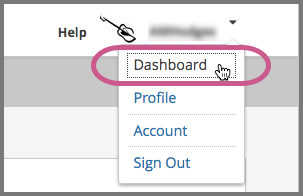
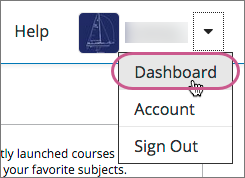
DOC-3860 Add Course Sessions topic

diff --git a/en_us/students/source/SFD_enrolling.rst b/en_us/students/source/SFD_enrolling.rst
@@ -40,7 +40,7 @@ you should understand these concepts.
 .. contents::
   :local:
   :depth: 1
-
+  
 
 .. _Course Availability:
 
@@ -80,6 +80,83 @@ times that the course is offered, and enroll in any of the available times.
 
 For more information, see :ref:`course start dates<Start Date and Duration>`
 and :ref:`course pacing<SFD Course Pacing>`.
+
+
+.. _Course Sessions:
+
+============================
+Course Sessions
+============================
+
+A course session is the period during which a course is held. A course might
+offer multiple sessions over a year. For example, a course might have two
+available sessions:
+
+* Session 1: starts September 1, 2018 and ends March 30, 2019
+* Session 2: starts June 1, 2019 and ends December 30, 2020.
+
+Not all courses offer multiple sessions. Some courses only show the currently
+running session. 
+
+Courses that show multiple sessions and the ability to change between sessions
+are usually part of MicroMasters or Professional Certificate programs. For
+these courses, on the **Courses** and **Programs** pages of your dashboard,
+after you enroll in the course, you have options to select a session, change
+to a different session, or leave a session. You must select a session before
+you can access the course.
+
+.. image:: ../../shared/images/session_select.png
+   :width: 600
+   :alt: A course card showing a dropdown menu with several available course
+      sessions and option to leave the session and decide later.
+
+When you enroll in the verified track for courses that offer multiple
+sessions, be aware of the following policies and timeframes.
+
+* **Upgrading From the Audit Track**
+
+  If you were already enrolled in the audit track of a course and you purchase
+  the verified track as part of a program purchase, we automatically enroll you
+  in the verified track for the course, in the current session. You can change
+  to a different session if the one we enrolled you in does not work for you.
+
+* **Join a Session Within 15 Months**
+
+  After you purchase the verified track for a course, you have 15 months from
+  the date of purchase to join a course session. After 15 months, if you have
+  not joined a session, your purchase expires, and you can no longer access the
+  course.
+
+
+* **Changing or Leaving Sessions**
+
+  After you join a course session in the verified track (including if we
+  automatically add you to a session as a result of your program purchase), you
+  can change to another session or leave the session within 14 days, as long as
+  you have not completed the course. For Professional Certificate courses only,
+  you must change sessions or leave the session within 2 days.
+
+  .. note:: When you change sessions, your course progress is not carried from
+     your current session to the new session.
+
+  Leaving a session is not the same as unenrolling from the course. If
+  the current session does not work for you, you can leave a session and wait to
+  decide on joining a later session of the course.
+
+
+* **Unenrolling and Getting a Refund**
+
+  Within 60 days from the date of purchase, you can unenroll from the course
+  entirely and get a refund of your course purchase, as long as you have not
+  been in a course session for more than 14 days. 
+
+  .. note:: For Professional Certificate courses only, you must not have been in
+     a course session for more than 2 days, to be able to unenroll.
+
+  If the refund eligibility period has passed (meaning that you will not
+  receive a refund when you unenroll), the unenroll option is not available.
+
+
 
 
 .. _Enrollment Tracks:
@@ -349,6 +426,14 @@ listed on the **Programs** page on your learner dashboard. Select the card for
 the program to go to a page that has more information about the program. On
 this page, you can view your progress through the program, enroll in more of
 the program's courses, and view any certificates that you have earned.
+
+.. note:: In some programs, courses offer multiple sessions and the ability to
+   change between sessions. For these courses, on the **Courses** and
+   **Programs** pages of your dashboard, after you enroll in the course, you
+   have options to select a session, change to a different session, or leave a
+   session. You must select a session before you can access the course.
+
+   For more information about course sessions, see :ref:`Course Sessions`.
 
 
 .. _Unenroll from a Course:

diff --git a/en_us/students/source/SFD_pursue_certs.rst b/en_us/students/source/SFD_pursue_certs.rst
@@ -1,4 +1,5 @@
-.. This topic is edX only
+.. This file is for edX only; not included in Open edX version of the Learner's
+.. Guide.
 
 .. _SFD Pursuing Certificate:
 
@@ -23,15 +24,27 @@ For more information about enrollment tracks, see :ref:`Enrollment Tracks`.
 
 .. _SFD Change to the Verified Track:
 
-********************************
-Upgrading to the Verified Track
-********************************
+************************************************
+Enrolling in or Upgrading to the Verified Track
+************************************************
 
-If you enroll in the audit track for a course on the edx.org website, and then
-decide to pursue a verified certificate, you can upgrade to the verified track
-at any time, until the course deadline for upgrading has passed. The deadline
-for upgrading to the verified track is usually about two weeks after the course
-start date.
+If you pay for the verified track for courses in a program, you are enrolled
+directly in the verified track for these courses, and can earn a certificate
+when you pass the courses with the required grade.
+
+.. note:: In some programs, courses offer multiple sessions to select from, and
+   the ability to change between sessions. For these courses, on the **Courses**
+   and **Programs** pages of your dashboard, after you enroll in the course, you
+   have options to select a session, change to a different session, or leave a
+   session. You must select a session before you can access the course.
+
+   For more information about course sessions, see :ref:`Course Sessions`.
+
+If you enroll in the audit track for a course and decide later to pursue a
+verified certificate, you can upgrade to the verified track at any time, until
+the deadline for upgrading has passed. The deadline for upgrading to the
+verified track is usually about two weeks after the course start date.
+
 
 .. contents::
   :local:

diff --git a/en_us/shared/students/SFD_dashboard_profile.rst b/en_us/shared/students/SFD_dashboard_profile.rst
@@ -106,11 +106,12 @@ media sites such as Facebook and Twitter.
     courses.
 
     To access information about a program, select that program. A page opens
-    that provides details about the program, as well as links to enroll in courses in that program.
+    that provides details about the program, as well as links to enroll in or
+    upgrade to the verified track in all courses in that program.
 
-  * View your progress through the program.
+  * View your progress for each program.
 
-    Under the name of the program are indications of your progress through the
+    Under the name of each program are indications of your progress through the
     program. You see the number of courses in the program that you have
     completed, the number of courses in the program that you are enrolled in,
     and the number of courses in the program that you are not yet enrolled in.
@@ -179,8 +180,8 @@ A limited profile includes only your username and, optionally, an image.
 To add or update a limited profile, follow these steps.
 
 
-#. At the top of any page, select **Profile** from the dropdown menu icon next
-   to your username.
+#. At the top of any page, select **Dashboard** from the dropdown menu icon next
+   to your username, then select the **Profile** tab.
 
 #. In the header area of your profile page, for **Profile Visibility**, select
    **Limited Profile**.
@@ -232,8 +233,8 @@ addition to your username and profile image.
 
 To add or update your profile, follow these steps.
 
-#. At the top of any page, select **Profile** from the dropdown menu icon next
-   to your username.
+#. At the top of any page, select **Dashboard** from the dropdown menu icon next
+   to your username, then select the **Profile** tab.
 
 #. In the header area of your profile page, for **Profile Visibility**, select
    **Full Profile**.
